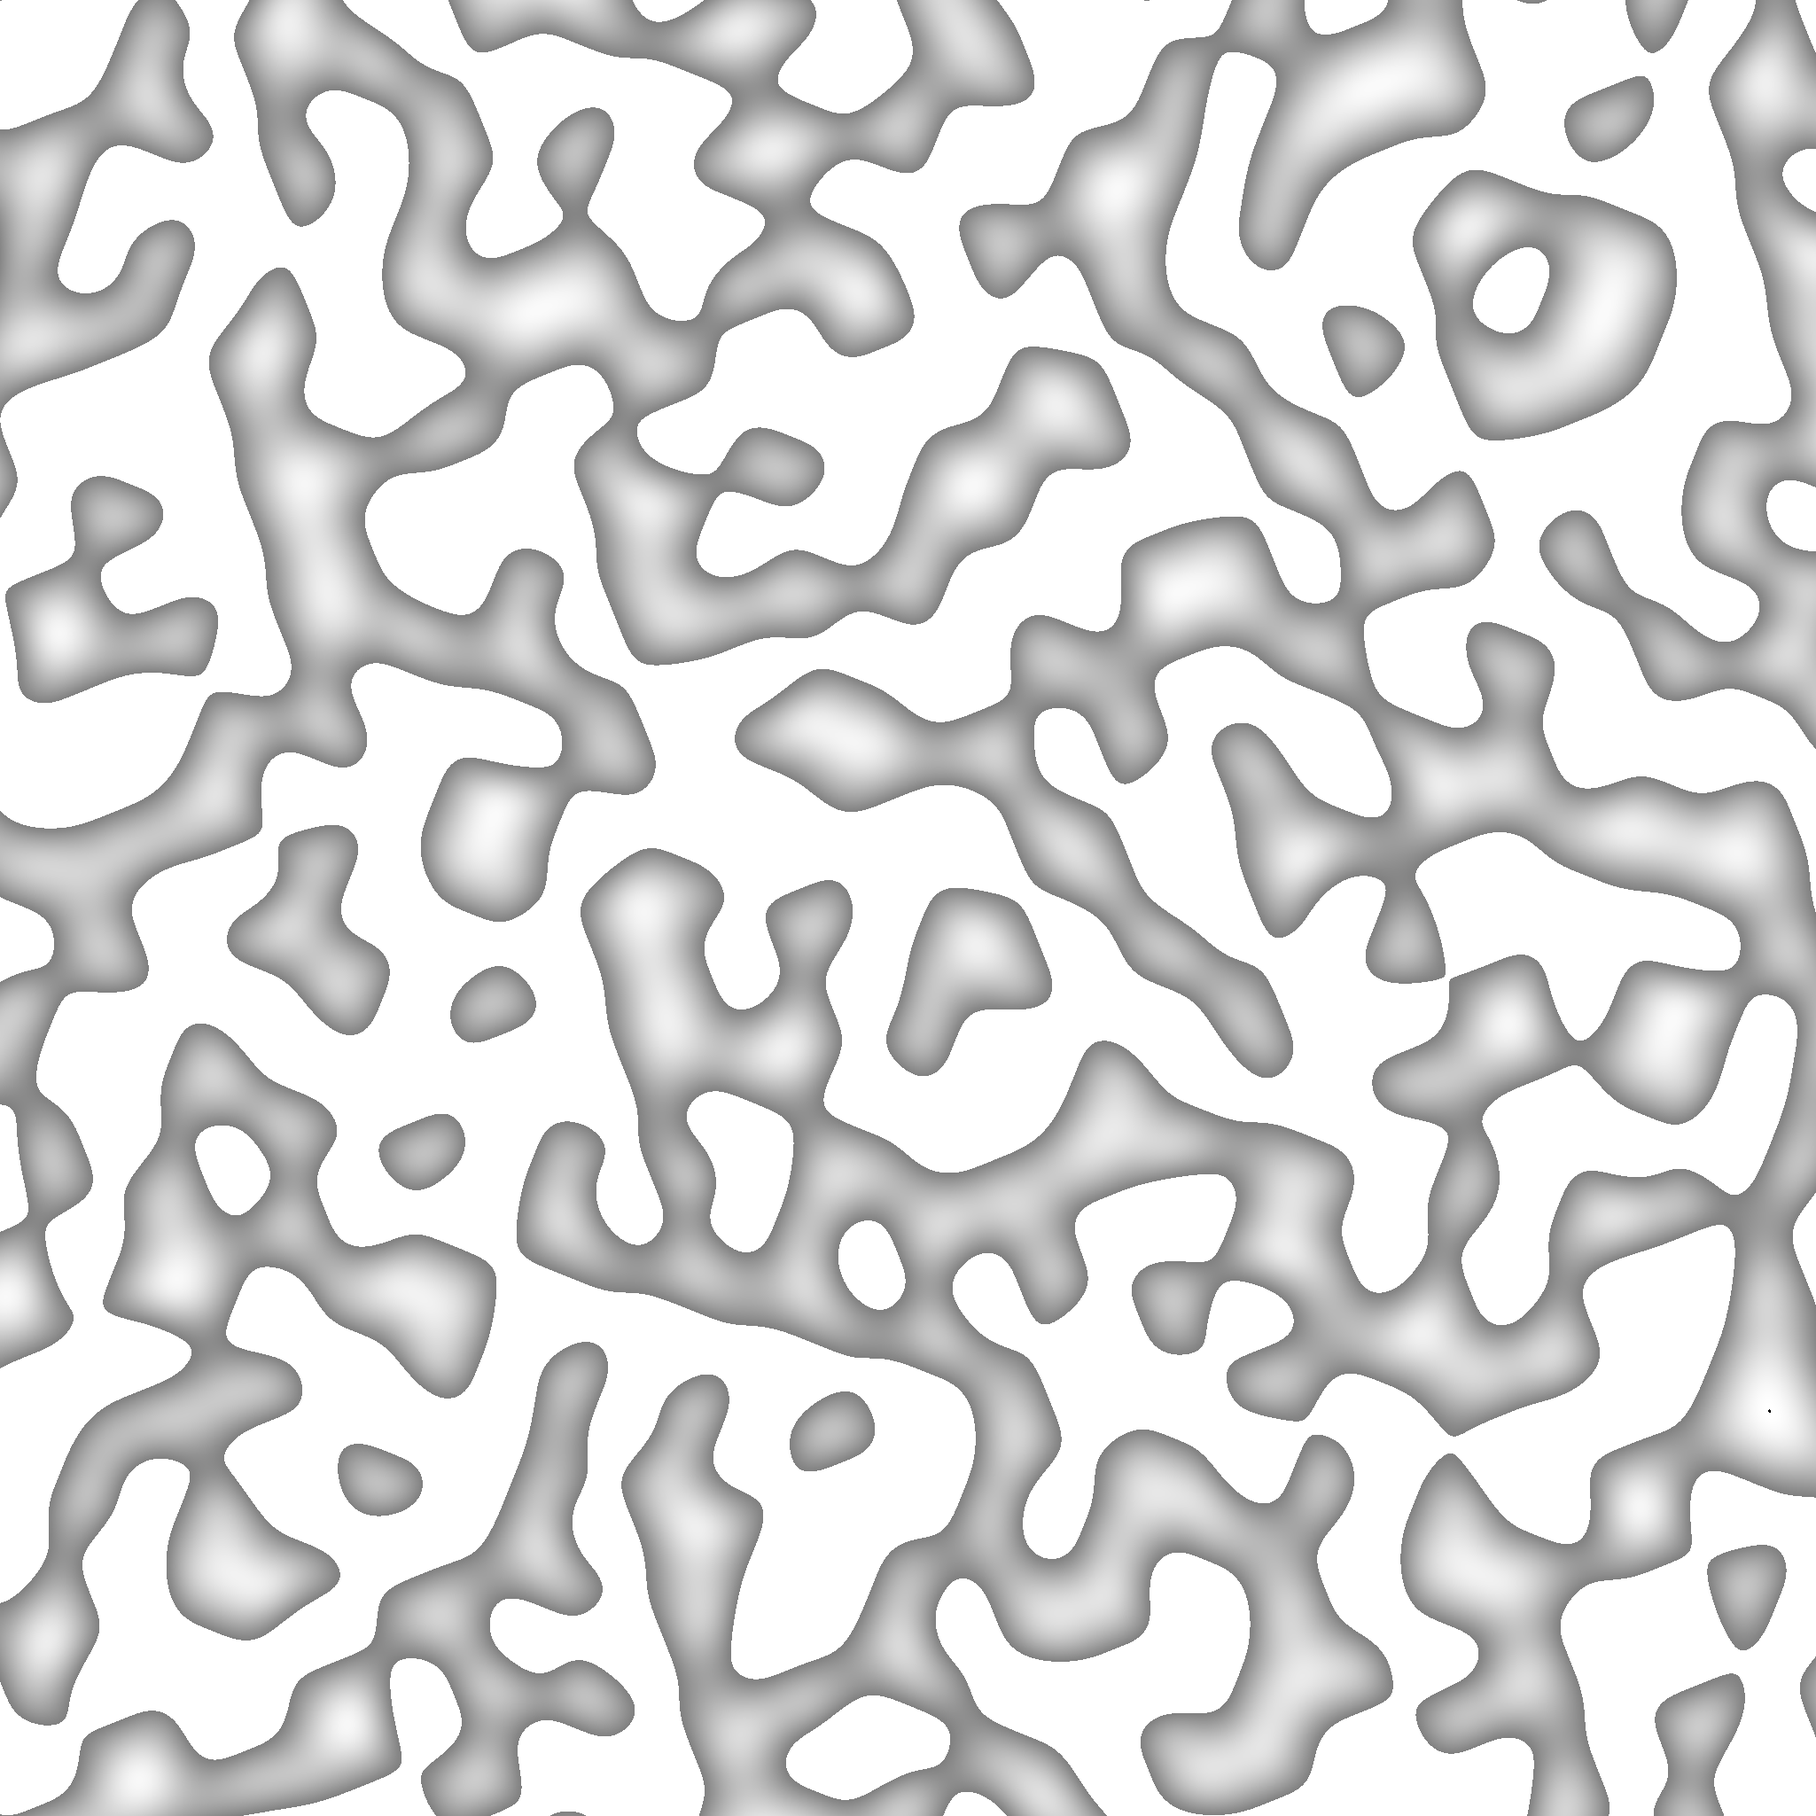
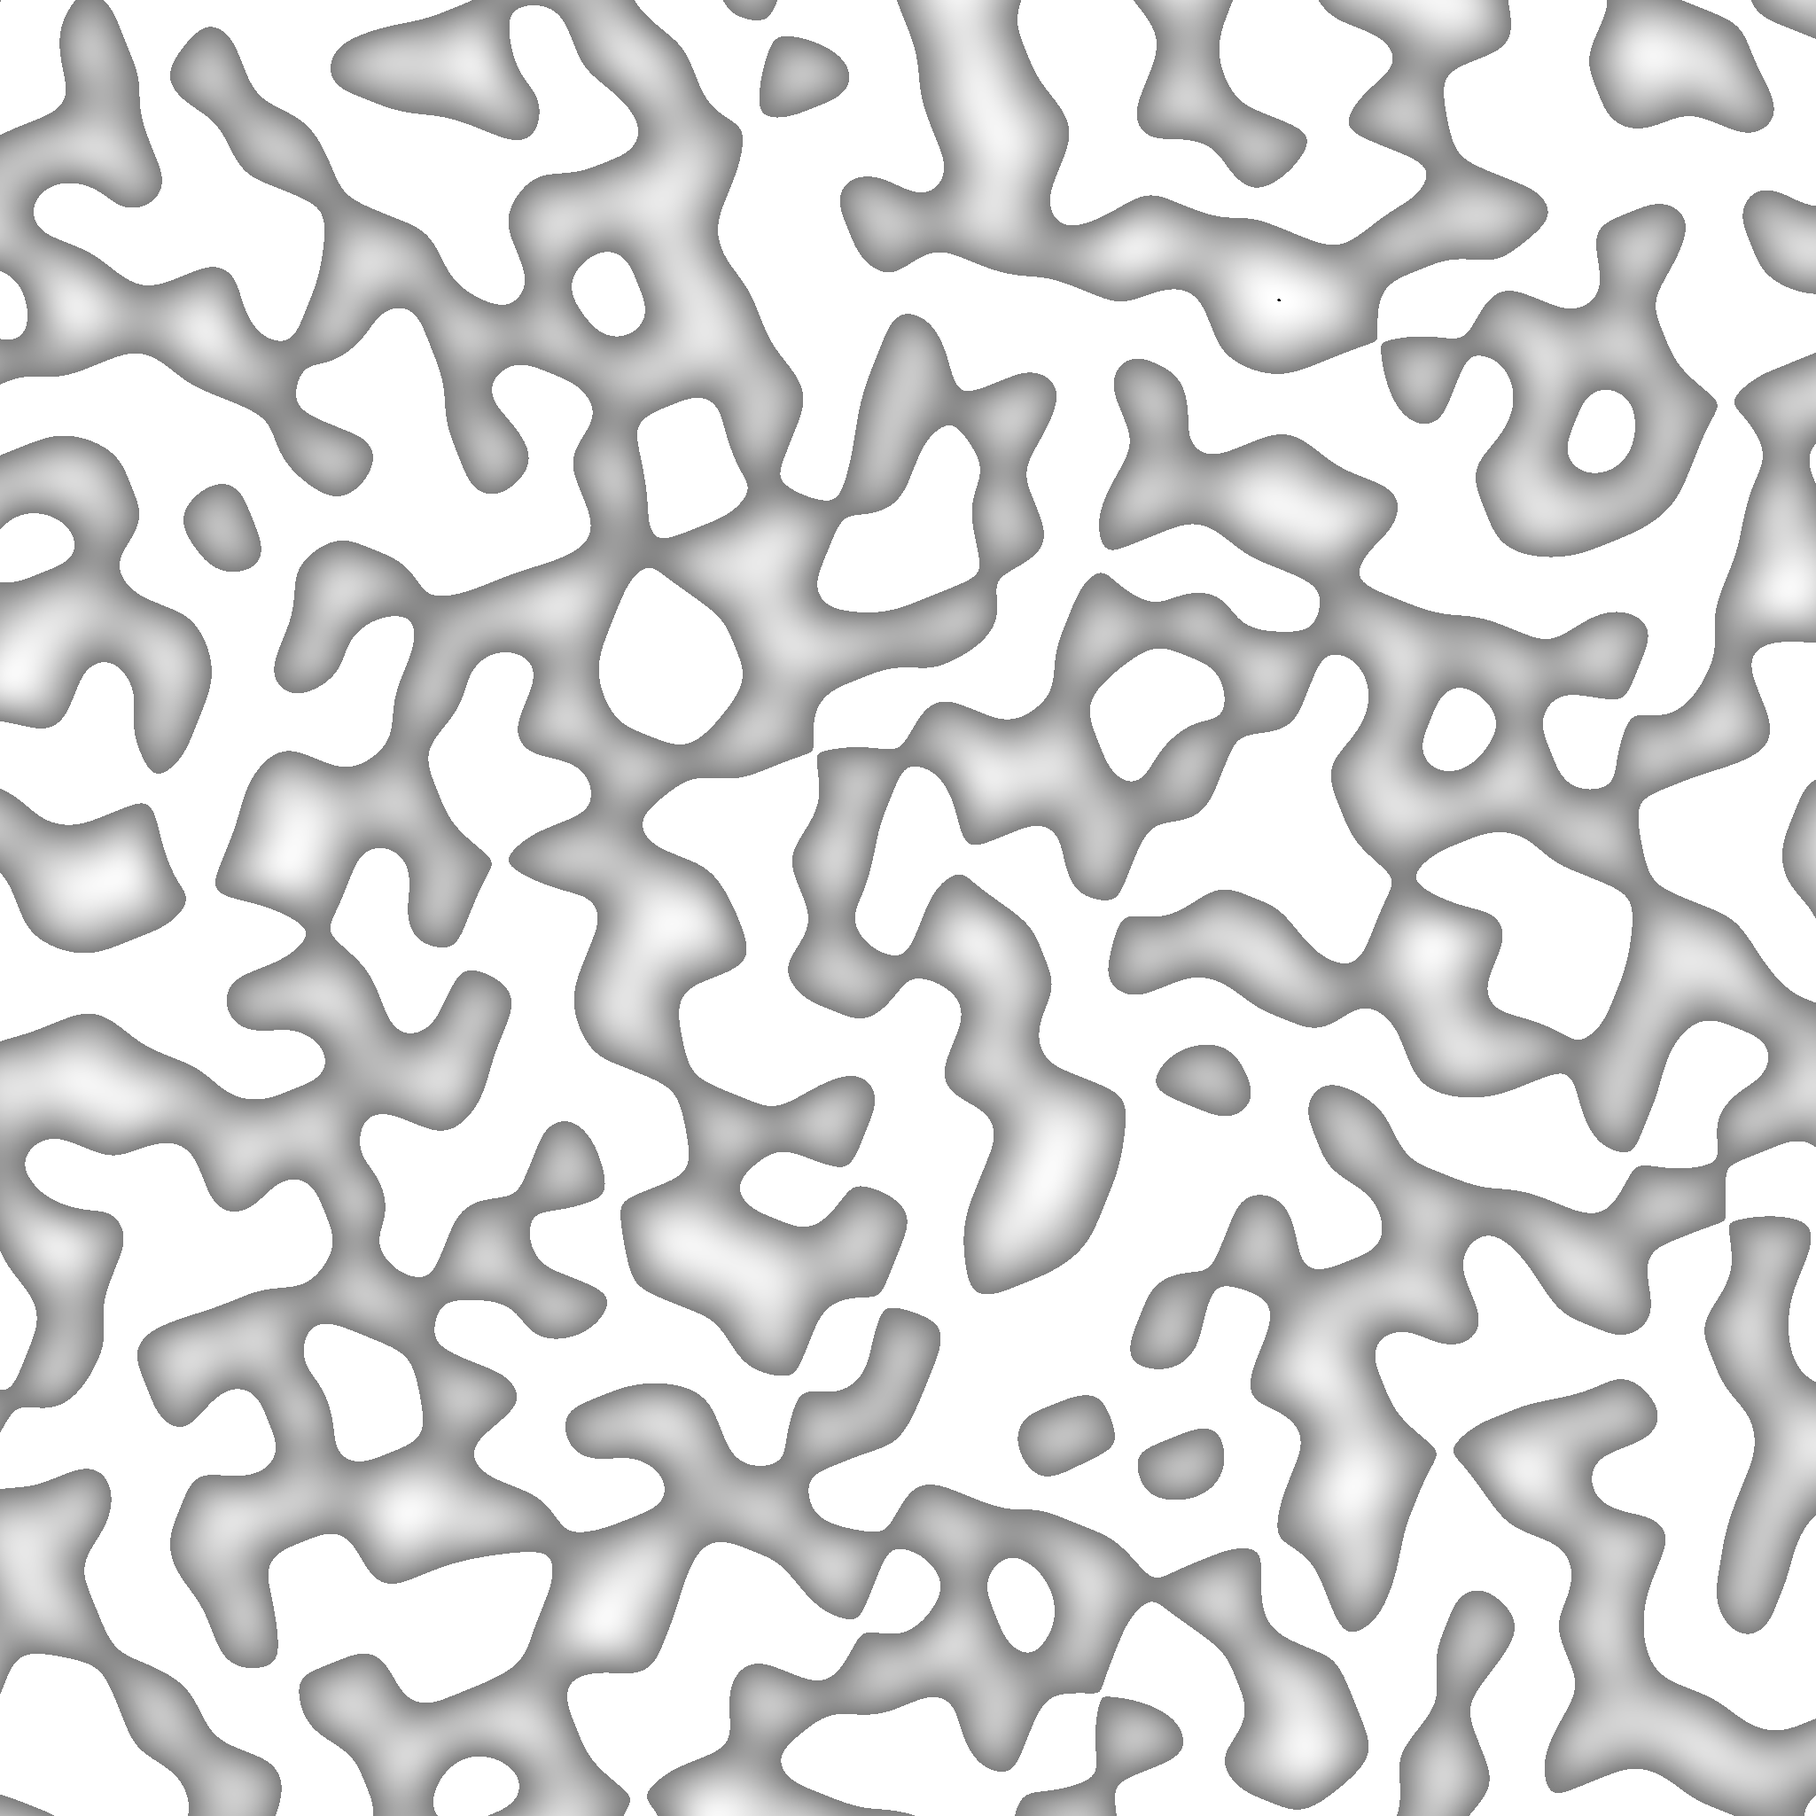
Added a new version of the island algorithm, added a more effective way to generate Normal Maps

diff --git a/Main/src/main/java/hills/Gurra/Terrain.java b/Main/src/main/java/hills/Gurra/Terrain.java
@@ -1,5 +1,6 @@
 package hills.Gurra;
 
+import hills.Anton.engine.math.Vec3;
 import javafx.scene.image.Image;
 
 import javax.imageio.ImageIO;
@@ -9,6 +10,8 @@ import java.io.File;
 import java.io.IOException;
 import java.net.URL;
 import java.nio.Buffer;
+import java.util.ArrayList;
+import java.util.List;
 import java.util.Random;
 import java.util.WeakHashMap;
 
@@ -39,11 +42,11 @@ public class Terrain {
         noise.setSeed(rand.nextLong());
         double[][] noise5 = noise.createMatrix(5, 0.4, false);
         noise.setSeed(rand.nextLong());
-        BufferedImage image = new BufferedImage(WIDTH + 1, HEIGHT + 1, BufferedImage.TYPE_INT_RGB);
+        BufferedImage image = new BufferedImage(WIDTH, HEIGHT, BufferedImage.TYPE_INT_RGB);
         double maximum = 0;
         double max = 0;
-        for (int x = 0; x <= WIDTH; x++) {
-            for (int y = 0; y <= HEIGHT; y++) {
+        for (int x = 0; x < WIDTH; x++) {
+            for (int y = 0; y < HEIGHT; y++) {
                             double green = noise1[x][y] + noise2[x][y]*0.5 + noise3[x][y]*0.25 + noise4[x][y]*0.2;
                             if (green>maximum){
                                 maximum = green;
@@ -53,8 +56,8 @@ public class Terrain {
                             matrix[x][y] = (int)(green*255);
                         }
                     }
-        for (int x = 0; x <= WIDTH; x++) {
-            for (int y = 0; y <= HEIGHT; y++) {
+        for (int x = 0; x < WIDTH; x++) {
+            for (int y = 0; y < HEIGHT; y++) {
                 int r = ((matrix[x][y]))<<16 & 0xFF0000;
                 int g = ((matrix[x][y]))<<8 & 0xFF00;
                 int b = ((matrix[x][y])) & 0xFF;
@@ -77,103 +80,18 @@ public class Terrain {
         return exp;
     }
 
-    public int[][] createHeightMa() {
-        Random rand = new Random();
-        double frequency = 200;
-        double amplitude = 1;
-        BufferedImage image = new BufferedImage(WIDTH + 1, HEIGHT + 1, BufferedImage.TYPE_INT_RGB);
-        int[][] colorMatrix = new int[WIDTH][HEIGHT];
-        double green = 0;
-        double maxAmp = 0;
-        double largest = 0;
-        for (int i = 0; i < 4; i++) {
-            double[][] matrix = noise.createMatrix(frequency, amplitude,false);
-            frequency = frequency * 0.5;
-            amplitude = amplitude * 0.75;
-            maxAmp += amplitude;
-            noise.setSeed(rand.nextLong());
-            for (int x = 0; x < WIDTH; x++) {
-                for (int y = 0; y < HEIGHT; y++) {
-                    green = matrix[x][y];
-                    colorMatrix[x][y] += (int) green;
-                    if (largest < colorMatrix[x][y]) {
-                        largest = colorMatrix[x][y];
-                    }
-                }
-            }
-        }
-        for (int x = 0; x < WIDTH; x++) {
-            for (int y = 0; y < HEIGHT; y++) {
-                green = (colorMatrix[x][y] / largest) * 255.0;
-                int[] rgb = {0, (int) green, 0};
-                System.out.println(green);
-                image.getRaster().setPixel(x, y, rgb);
-            }
-        }
-        return matrix;
-    }
-
-    public double[][] test() {
-        double[][] matrix = noise.createMatrix(300, 1, false);
-        double[][] matrix2 = noise.createMatrix(150, 0.5, false);
-        double[][] matrix3 = noise.createMatrix(75, 0.25, false);
-        BufferedImage image = new BufferedImage(WIDTH + 1, HEIGHT + 1, BufferedImage.TYPE_INT_RGB);
-        for (int x = 0; x < WIDTH; x++) {
-            for (int y = 0; y < HEIGHT; y++) {
-                    double green = matrix[x][y];       // not correct. does create interesting effect however
-                    green = (int) ((green + matrix2[x][y]) * 0.5);
-                    green = (int) ((green + (matrix3[x][y])) * 0.25);
-                    green = Math.pow(3 * green, 1 / ELEVATION_MODIFIER) - Math.pow(2 * green, 1 / ELEVATION_MODIFIER);
-            }
-            }
-            try {
-                ImageIO.write(image, "png", new File("src/main/resources/textures/testnoise.png"));
-            } catch (IOException e) {
-                e.printStackTrace();
-            }
-
-        return matrix;
-    }
-
     /*
      * Do Not Modify. works pretty perfectly like it should.
      */
     public double[][] createIsland(){
-        double matrix[][] = new double[WIDTH+1][HEIGHT+1];
-        BufferedImage image = new BufferedImage(WIDTH + 1, HEIGHT + 1, BufferedImage.TYPE_INT_RGB);
+        double matrix[][] = new double[WIDTH][HEIGHT];
+        BufferedImage image = new BufferedImage(WIDTH, HEIGHT, BufferedImage.TYPE_INT_RGB);
         double exp = exponentCalc();
         double[][] noise1 = noise.createMatrix(100, 1, true);
-        for (int x = 0; x <= WIDTH; x++) {
-            for (int y = 0; y <= HEIGHT; y++) {
-
-                double green = 1;
-                int distanceToCenterX;
-                if (WIDTH / 2 - x > 0) {
-                    distanceToCenterX = WIDTH / 2 - x;
-                } else {
-                    distanceToCenterX = x - WIDTH / 2;
-                }
-                int distanceToCenterY;
-                if (HEIGHT / 2 - y > 0) {
-                    distanceToCenterY = HEIGHT / 2 - y;
-                } else {
-                    distanceToCenterY = y - HEIGHT / 2;
-                }
-                double multiplier = (WIDTH * HEIGHT / 4) - ((distanceToCenterX * distanceToCenterY + Math.pow(distanceToCenterX, exp) + Math.pow(distanceToCenterY, exp)) / 4);
-                multiplier = (multiplier / (WIDTH * HEIGHT / 4));
-                //Multiplier is used to create a island like shape.
-                green *= multiplier;
-                green = setMinusToZero(green);
-                boolean isZero = green==0;
-                if(!isZero) {
-                    green = Math.pow(green,setMinusToZero(noise1[x][y])*3);         // last number decides how steep natural slopes should be.
-                }
-                matrix[x][y] = green;
-                int r = ((int)(green*255))<<16 & 0xFF0000;
-                int g = ((int)(green*255))<<8 & 0xFF00;
-                int b = ((int)(green*255)) & 0xFF;
-                int rgb2 = r+b+g;
-                image.setRGB(x,y,rgb2);
+        for (int x = 0; x < WIDTH; x++) {
+            for (int y = 0; y < HEIGHT; y++) {
+                islandAlgorithm1(noise1[x][y], x, y, exp, image, matrix);
+              //  islandAlgorithm2(noise1[x][y], x, y, exp, image, matrix);
             }
         }
         try {
@@ -183,15 +101,77 @@ public class Terrain {
         }
         return matrix;
     }
+    private double islandAlgorithm1(double noise, int x, int y, double exp, BufferedImage image, double[][] matrix){
+        double green = 1;
+        int distanceToCenterX;
+        if (WIDTH / 2 - x > 0) {
+            distanceToCenterX = WIDTH / 2 - x;
+        } else {
+            distanceToCenterX = x - WIDTH / 2;
+        }
+        int distanceToCenterY;
+        if (HEIGHT / 2 - y > 0) {
+            distanceToCenterY = HEIGHT / 2 - y;
+        } else {
+            distanceToCenterY = y - HEIGHT / 2;
+        }
+        double multiplier = (WIDTH * HEIGHT / 4) - ((distanceToCenterX * distanceToCenterY + Math.pow(distanceToCenterX, exp) + Math.pow(distanceToCenterY, exp)) / 4);
+        multiplier = (multiplier / (WIDTH * HEIGHT / 4));
+        //Multiplier is used to create a island like shape.
+        green *= multiplier;
+        green = setMinusToZero(green);
+        boolean isZero = green==0;
+        if(!isZero) {
+            green = Math.pow(green,setMinusToZero(noise)*3);         // last number decides how steep natural slopes should be.
+        }// line above is only thing that needs change
+        matrix[x][y] = green;
+        int r = ((int)(green*255))<<16 & 0xFF0000;
+        int g = ((int)(green*255))<<8 & 0xFF00;
+        int b = ((int)(green*255)) & 0xFF;
+        int rgb = r+b+g;
+        image.setRGB(x,y,rgb);
+        return rgb;
+    }
+    private double islandAlgorithm2(double noise, int x, int y, double exp, BufferedImage image, double[][] matrix){
 
+        double green = 1;
+        int distanceToCenterX;
+        if (WIDTH / 2 - x > 0) {
+            distanceToCenterX = WIDTH / 2 - x;
+        } else {
+            distanceToCenterX = x - WIDTH / 2;
+        }
+        int distanceToCenterY;
+        if (HEIGHT / 2 - y > 0) {
+            distanceToCenterY = HEIGHT / 2 - y;
+        } else {
+            distanceToCenterY = y - HEIGHT / 2;
+        }
+        double multiplier = (WIDTH * HEIGHT / 4) - ((distanceToCenterX * distanceToCenterY + Math.pow(distanceToCenterX, exp) + Math.pow(distanceToCenterY, exp)) / 4);
+        multiplier = (multiplier / (WIDTH * HEIGHT / 4));
+        //Multiplier is used to create a island like shape.
+        green *= multiplier;
+        green = setMinusToZero(green);
+        boolean isZero = green==0;
+        if(!isZero) {
+            green = Math.pow(green,1-setMinusToZero(noise)*1.1);         // last number decides how steep natural slopes should be.
+        }
+        matrix[x][y] = green;
+        int r = ((int)(green*255))<<16 & 0xFF0000;
+        int g = ((int)(green*255))<<8 & 0xFF00;
+        int b = ((int)(green*255)) & 0xFF;
+        int rgb = r+b+g;
+        image.setRGB(x,y,rgb);
+        return rgb;
+    }
 
     public double[][] finalIsland(){
         double[][] islandMatrix = createIsland();
         int[][] noiseMatrix = createHeightMap();
-        BufferedImage image = new BufferedImage(WIDTH + 1, HEIGHT + 1, BufferedImage.TYPE_INT_RGB);
-        double[][] finalMatrix = new double[WIDTH+1][HEIGHT+1];
-        for(int x = 0; x<=WIDTH; x++){
-            for(int y = 0; y<=HEIGHT; y++){
+        BufferedImage image = new BufferedImage(WIDTH, HEIGHT, BufferedImage.TYPE_INT_RGB);
+        double[][] finalMatrix = new double[WIDTH][HEIGHT];
+        for(int x = 0; x<WIDTH; x++){
+            for(int y = 0; y<HEIGHT; y++){
                 finalMatrix[x][y] = islandMatrix[x][y] * noiseMatrix[x][y];
                 finalMatrix[x][y] = setToZero(finalMatrix[x][y]);       // TO REMOVE. only to simulate water
                 int r = ((int)(finalMatrix[x][y]))<<16 & 0xFF0000;
@@ -206,7 +186,29 @@ public class Terrain {
         } catch (IOException e) {
             e.printStackTrace();
         }
+        generateNormal(finalMatrix);
         return finalMatrix;
+    }
+    public void generateNormal(double[][] terrain){
+        List<Vec3> normals = new ArrayList<>();
+        BufferedImage image = new BufferedImage(terrain.length, terrain[0].length, BufferedImage.TYPE_INT_RGB);
+        for(int x = 0; x < terrain.length-1; x++){          // Since the last rows are always Black, no Normal-calculations are needed.
+            for(int y = 0; y<terrain[0].length-1; y++){
+                Vec3 v1 = new Vec3(x, y, (float)terrain[x][y]);
+                Vec3 v2 = new Vec3(x+1, y, (float)terrain[x+1][y]);
+                Vec3 v3 = new Vec3(x, y+1, (float)terrain[x][y+1]);
+                TerrainData td = new TerrainData(v1,v2,v3);
+                Vec3 normal = td.getNormal();
+                normals.add(normal);
+                int[]rgb = {(int) (normal.getX()*255), (int) (normal.getY()*255), (int) (normal.getZ()*255)};
+                image.getRaster().setPixel(x,y,rgb);
+            }
+        }
+        try {
+            ImageIO.write(image, "png", new File("src/main/resources/textures/normal.png"));
+        } catch (IOException e) {
+            e.printStackTrace();
+        }
     }
     private double setMinusToZero(double green) {
         if(green<0.0){
@@ -215,7 +217,7 @@ public class Terrain {
         return green;
     }
     private double setToZero(double green) {
-        if(green<15.0){
+        if(green<50){
             return 0;
         }
         return green;

diff --git a/Main/src/main/java/hills/Main.java b/Main/src/main/java/hills/Main.java
@@ -2,9 +2,21 @@ package hills;
 
 
 import hills.Anton.Init;
+import hills.Anton.engine.math.Vec3;
 import hills.Gurra.NoiseMapGenerator;
 import hills.Gurra.Terrain;
+import hills.Gurra.TerrainData;
 
+import javax.imageio.ImageIO;
+import java.awt.image.BufferedImage;
+import java.io.BufferedWriter;
+import java.io.File;
+import java.io.FileWriter;
+import java.io.IOException;
+import java.net.URI;
+import java.net.URISyntaxException;
+import java.util.ArrayList;
+import java.util.List;
 import java.util.Random;
 
 
@@ -32,9 +44,7 @@ public class Main {
 
         Random rand = new Random();
         Terrain noise = new Terrain(rand.nextLong());
-        noise.finalIsland();
-        NoiseMapGenerator n = new NoiseMapGenerator(rand.nextLong());
-        n.create2DNoiseImage("test", 100, 1);
+        double[][] terrain = noise.finalIsland();
         Init i = new Init();
         i.init();
 

diff --git a/Main/src/main/java/hills/Gurra/TerrainData.java b/Main/src/main/java/hills/Gurra/TerrainData.java
@@ -1,0 +1,29 @@
+package hills.Gurra;
+
+import hills.Anton.engine.math.Vec3;
+import lombok.Getter;
+
+import java.io.File;
+import java.net.URI;
+import java.net.URISyntaxException;
+
+/**
+ * Created by gustav on 2017-03-31.
+ */
+public class TerrainData {
+    @Getter private Vec3 position;
+    @Getter private Vec3 normal;
+    @Getter private TerrainTexture texture;
+    public TerrainData(Vec3 position, Vec3 offset1, Vec3 offset2){
+
+        this.position = position;
+        Vec3 rel1 = offset1.sub(position);
+        Vec3 rel2 = offset2.sub(position);
+        normal = rel1.cross(rel2).normalize();
+        texture = calculateTerrainTexture();
+    }
+    public TerrainTexture calculateTerrainTexture() {
+        return TerrainTexture.GRASS;
+
+    }
+}

diff --git a/Main/src/test/java/terrainTest.java b/Main/src/test/java/terrainTest.java
@@ -1,3 +1,4 @@
+import hills.Anton.engine.math.Vec3;
 import hills.Gurra.Terrain;
 import org.junit.Before;
 import org.junit.Test;
@@ -17,7 +18,7 @@ public class terrainTest {
     @Before
     public void testTerrain(){
         Random random = new Random();
-        t = new Terrain(random.nextLong());
+        t = new Terrain(1);
         assertNotNull(t);
     }
     @Test

diff --git a/Main/src/main/java/hills/Gurra/TerrainTexture.java b/Main/src/main/java/hills/Gurra/TerrainTexture.java
@@ -1,0 +1,8 @@
+package hills.Gurra;
+
+/**
+ * Created by gustav on 2017-03-31.
+ */
+public enum TerrainTexture {
+    GRASS, WATER, SAND, SNOW, ROCK
+}
